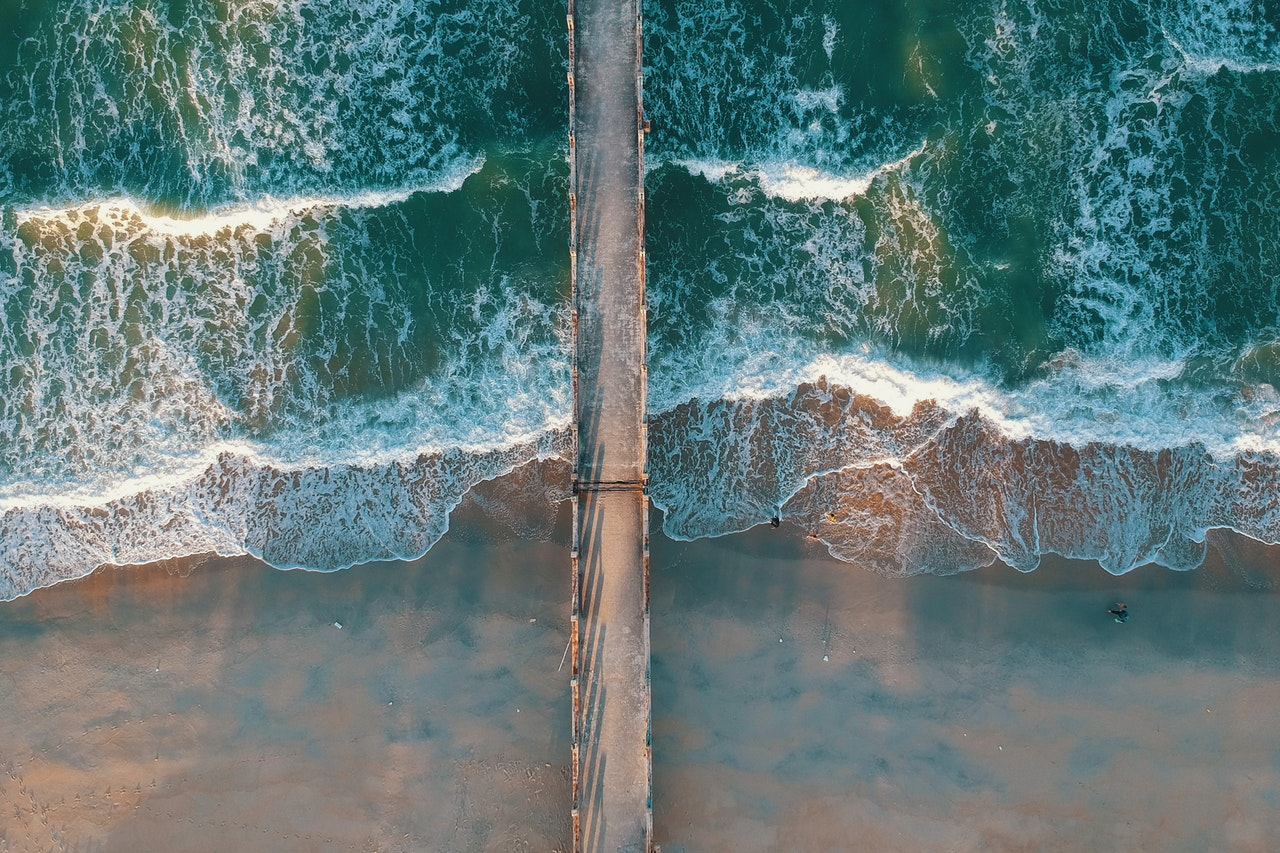
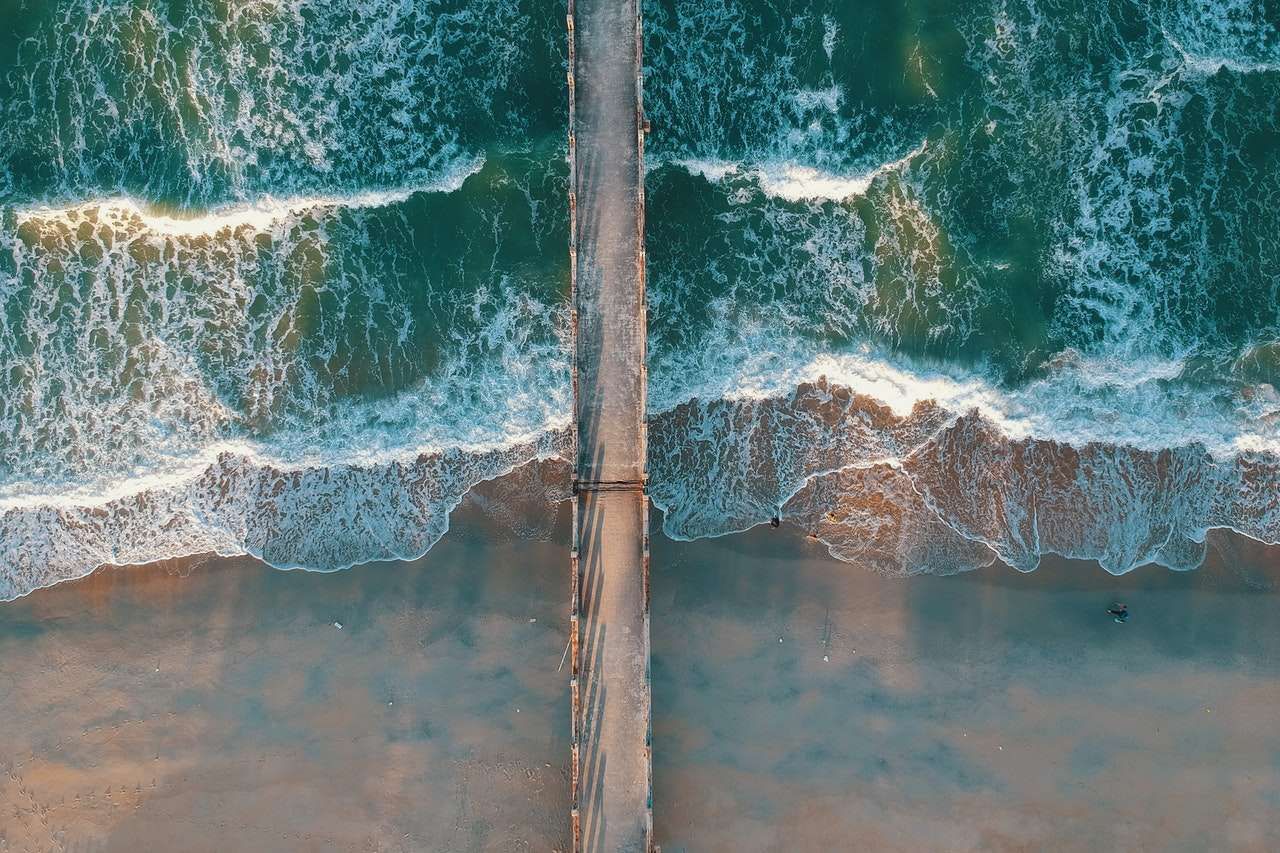
navbar completed in desktop hero image compressed

Changed region(s): [[0.625, 0.5487, 0.6562, 0.5791], [0.3125, 0.5487, 0.3438, 0.5791]]

diff --git a/src/components/NavBar/MenuItems.js b/src/components/NavBar/MenuItems.js
@@ -1,8 +1,8 @@
 import React, {useState} from 'react';
-import {Menu} from "semantic-ui-react";
+import {Button, Menu} from "semantic-ui-react";
 import {Link} from 'react-router-dom';
 
-const MenuItems = () => {
+const MenuItems = ({fixed}) => {
     const [active, setActive] = useState('home');
     return (
         <React.Fragment>
@@ -13,9 +13,13 @@ const MenuItems = () => {
                 onClick={(e, {name}) => {
                     setActive(name)
                 }}>
-                <div style={{marginLeft: '1em'}}>
-                    Home
-                </div>
+
+                {
+                    (!fixed) ? <Button
+                        color="linkedin">
+                        Home
+                    </Button> : <div>Home</div>
+                }
             </Menu.Item>
             <Menu.Item
                 as={Link} to="/rezome"
@@ -24,21 +28,38 @@ const MenuItems = () => {
                 onClick={(e, {name}) => {
                     setActive(name)
                 }}>
-                <div style={{marginLeft: '1em',color:'#3bf3ff'}}>
-                    Rezome
-                </div>
+
+                {
+                    (!fixed) ? <Button
+                        color="linkedin">
+                        Rezome
+                    </Button> : <div>Rezome</div>
+                }
             </Menu.Item>
 
 
-            <Menu.Item as='a'>
-                <div style={{marginLeft: '1em'}}>
-                    Company
-                </div>
+            <Menu.Item
+                as='a'
+                name="company"
+                active={active === 'company'}
+                onClick={(e, {name}) => {
+                    setActive(name)
+                }}>
+                {
+                    (!fixed) ? <Button
+                        color="linkedin">
+                        Company
+                    </Button> : <div>Company</div>
+                }
             </Menu.Item>
+
             <Menu.Item as='a'>
-                <div style={{marginLeft: '1em'}}>
-                    Careers
-                </div>
+                {
+                    (!fixed) ? <Button
+                        color="linkedin">
+                        Careers
+                    </Button> : <div>Careers</div>
+                }
             </Menu.Item>
 
         </React.Fragment>

diff --git a/src/components/NavBar/NavBarTitle.js b/src/components/NavBar/NavBarTitle.js
@@ -1,60 +1,18 @@
 import React from 'react';
 import {Container, Header} from "semantic-ui-react";
 
-
-// .hero-image {
-//     /* Use "linear-gradient" to add a darken background effect to the image (photographer.jpg). This will make the text easier to read */
-//     background-image: linear-gradient(rgba(0, 0, 0, 0.5), rgba(0, 0, 0, 0.5)), url("photographer.jpg");
-//
-//     /* Set a specific height */
-//     height: 50%;
-//
-//     /* Position and center the image to scale nicely on all screens */
-//     background-position: center;
-//     background-repeat: no-repeat;
-//     background-size: cover;
-//     position: relative;
-// }
-//
-// /* Place text in the middle of the image */
-// .hero-text {
-//     text-align: center;
-//     position: absolute;
-//     top: 50%;
-//     left: 50%;
-//     transform: translate(-50%, -50%);
-//     color: white;
-// }
-
-
-// .defaultHero,
-// .roomsHero {
-//     min-height: calc(100vh - 66px);
-//     background: url("images/defaultBcg.jpeg") center/cover no-repeat;
-//     display: flex;
-//     alignItems : 'center',
-//         justifyContent : 'center'
-//     align-items: center;
-//     justify-content: center;
-// }
-// .roomsHero {
-//     background-image: url("images/room-2.jpeg");
-//     min-height: 60vh;
-// }
-
 const NavBarTitle = ({mobile}) => {
     return (
         <Container text>
             <Header
                 as='h2'
-                // color={mobile ? null : "blue"}
                 content='The 1,000-mile marathon begins with the first step'
                 inverted
                 style={{
                     fontWeight: 'normal',
                     marginBottom: 0,
-                    fontSize: mobile ? '1.9em' : '3.1em',
-                    marginTop: mobile ? '4em' : '1.7em ',
+                    fontSize: mobile ? '1.7em' : '3.8em',
+                    marginTop: mobile ? '2.5em' : '2em ',
                     color : '#72ff77'
                 }}
             />

diff --git a/src/components/NavBar/NavBarSocialIcons.js b/src/components/NavBar/NavBarSocialIcons.js
@@ -1,30 +1,24 @@
 import React from 'react';
-import {Button, Icon, Menu} from "semantic-ui-react";
+import {Menu} from "semantic-ui-react";
 import SvgIcon from "./SvgIcon";
 
 const NavBarSocialIcons = ({mobile}) => {
     return (
         <Menu.Item position='right'>
-            <Button
-                as='a'
-                animated={(!mobile) ? 'vertical' : null}
+            <div
                 onClick={() => {
                     openSocial('https://t.me/ashkanEsz')
                 }}>
-                <Button.Content visible> <SvgIcon name="telegram.svg"/> </Button.Content>
-                {(!mobile) && <Button.Content hidden> <Icon name='arrow right'/></Button.Content>}
-            </Button>
+                <SvgIcon name="telegram.svg" width={(mobile) ? "35px" : "45px"} height={(mobile) ? "35px" : "45px"}/>
+            </div>
 
-            <Button
-                as='a'
-                animated={(!mobile) ? 'vertical' : null}
-                style={{marginLeft: '0.5em'}}
+            <div
+                style={{marginLeft: '1.8em'}}
                 onClick={() => {
                     openSocial('https://www.instagram.com/ashkan__esz/')
                 }}>
-                <Button.Content visible> <SvgIcon name="instagram.svg"/></Button.Content>
-                {(!mobile) && <Button.Content hidden><Icon name='arrow right'/></Button.Content>}
-            </Button>
+                <SvgIcon name="instagram.svg" width={(mobile) ? "35px" : "45px"} height={(mobile) ? "35px" : "45px"}/>
+            </div>
         </Menu.Item>
     );
 };

diff --git a/src/components/NavBar/NavBarForDesktop.js b/src/components/NavBar/NavBarForDesktop.js
@@ -38,12 +38,12 @@ const NavBarForDesktop = () => {
                             inverted={fixed}
                             secondary={!fixed}
                             pointing={!fixed}
-                            color={fixed ? 'grey' : "teal"}
+                            color={fixed ? 'violet' : "teal"}
                             borderless
                             size="large">
 
                             <Container>
-                                <MenuItems/>
+                                <MenuItems fixed={fixed}/>
                                 <NavBarSocialIcons/>
                             </Container>
                         </Menu>

diff --git a/src/components/NavBar/NavBarForMobiles.js b/src/components/NavBar/NavBarForMobiles.js
@@ -37,7 +37,7 @@ const NavBarForMobiles = () => {
                         fluid
                         vertical
                         color="grey">
-                        <MenuItems/>
+                        <MenuItems fixed={true}/>
                     </Menu>
                 </Sidebar>
 
